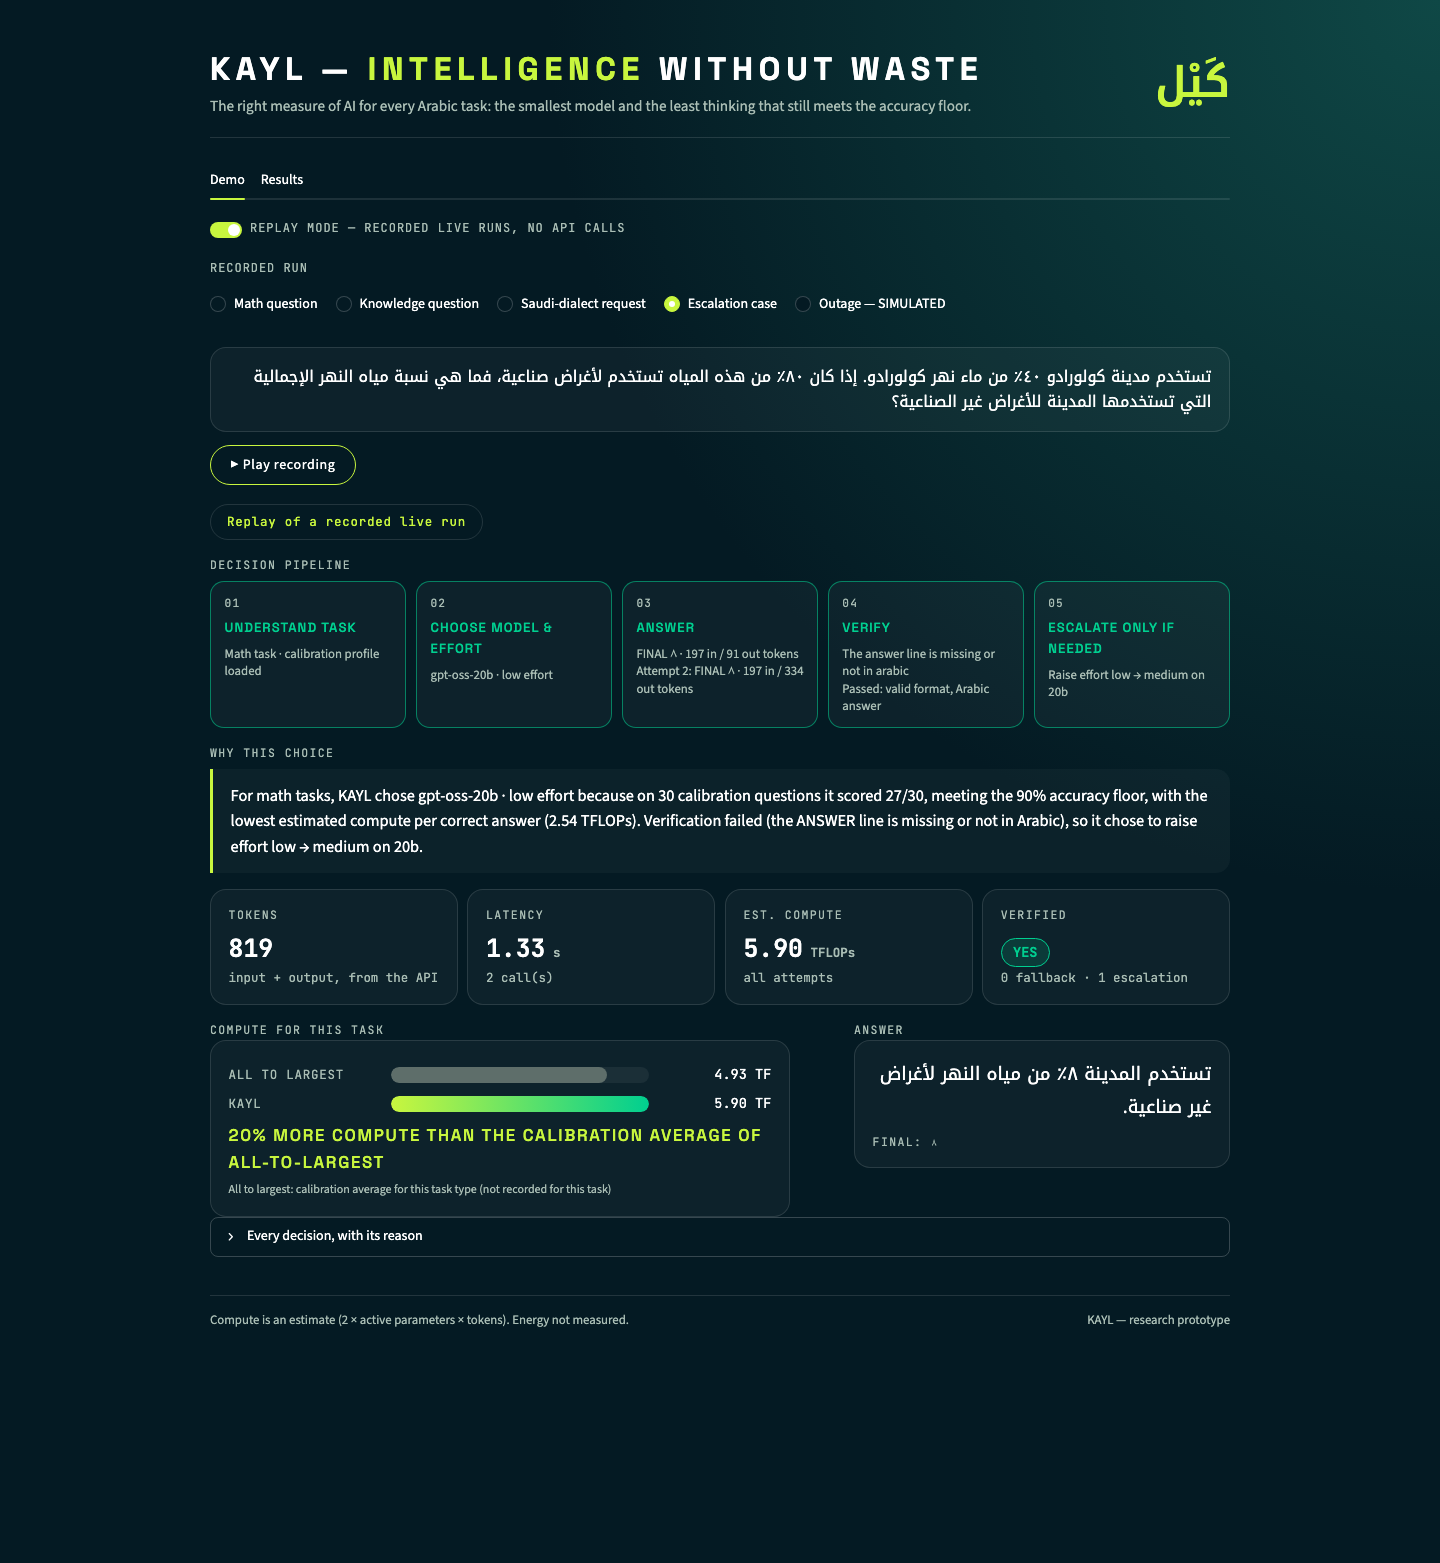
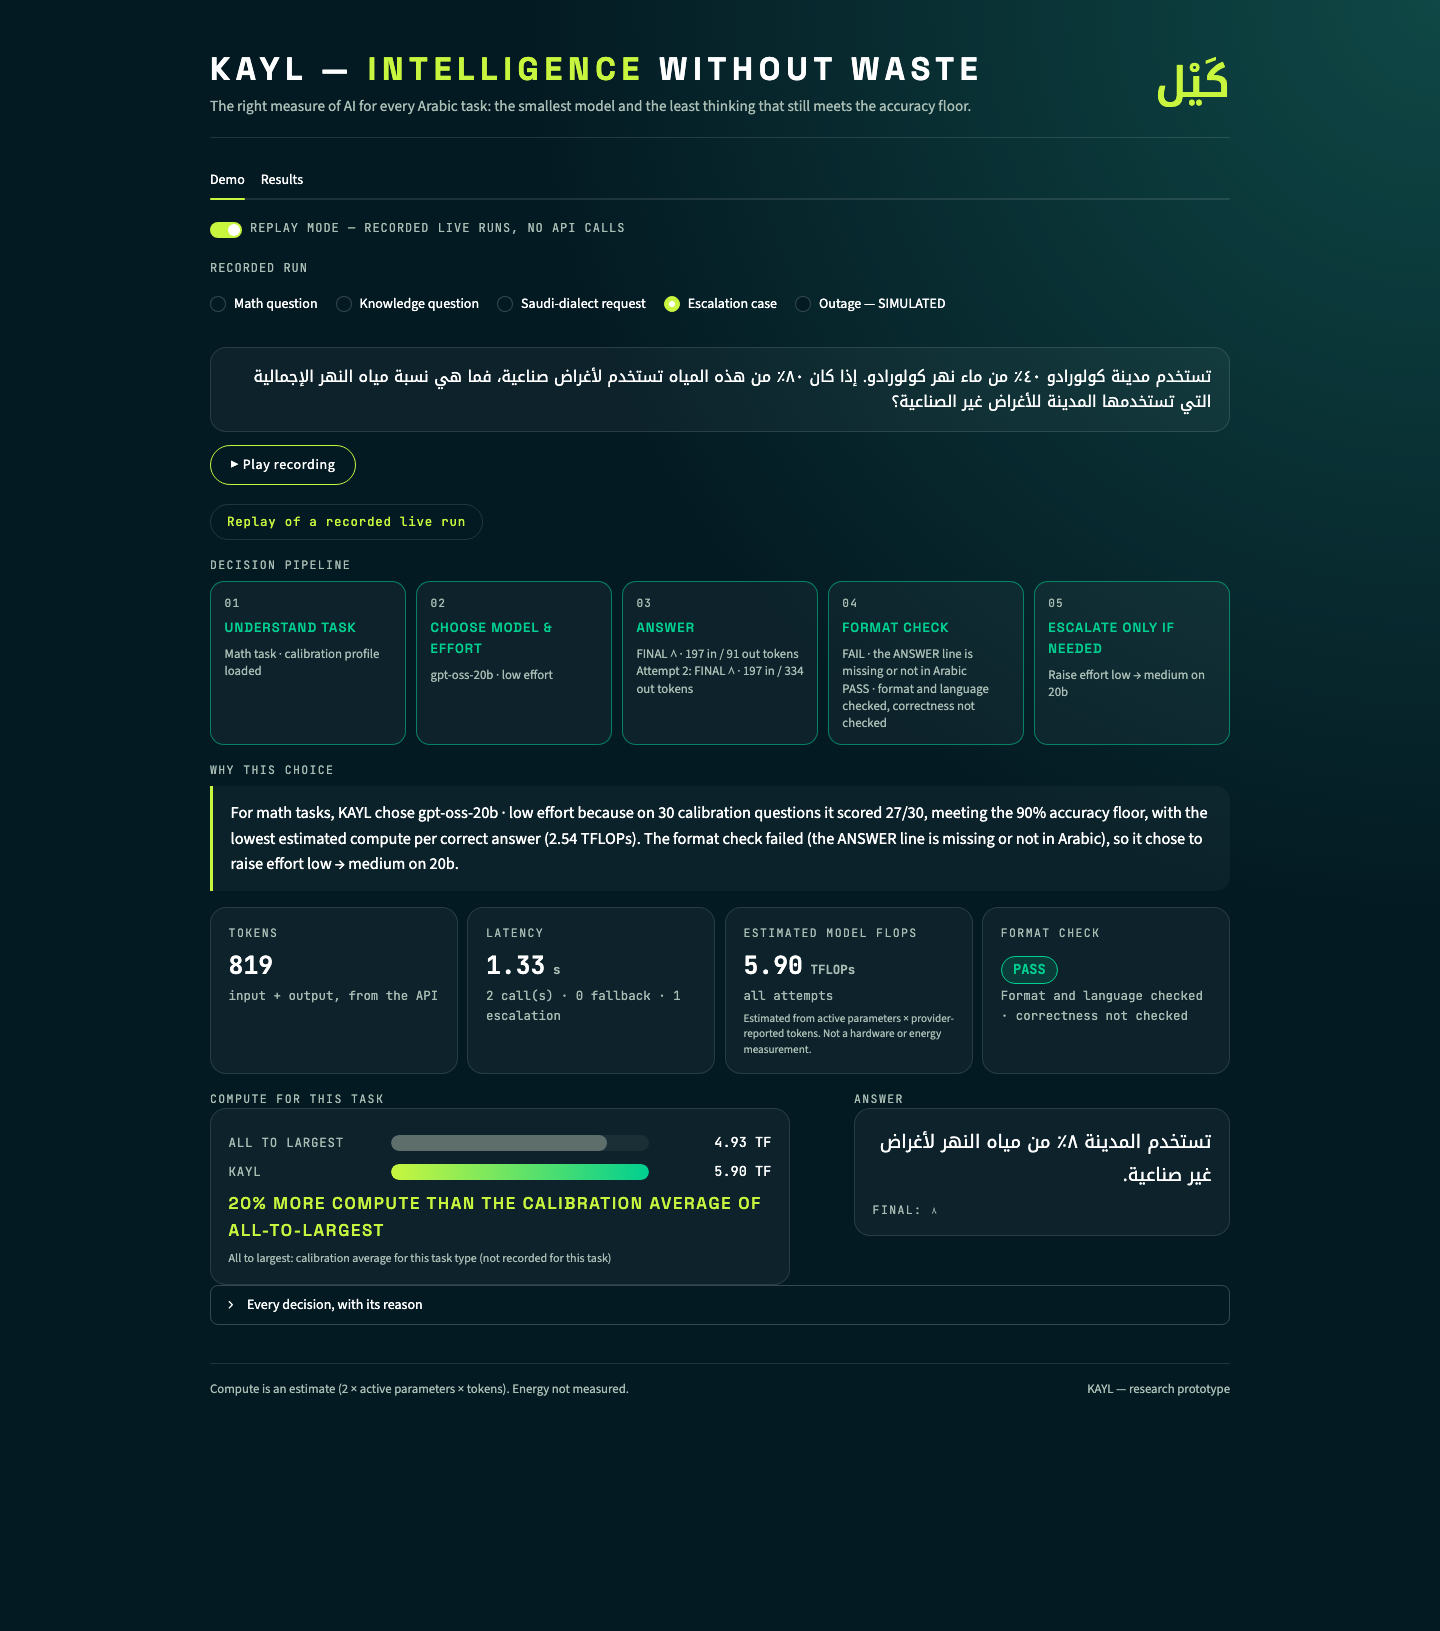
UI and README: format check instead of "verified"; estimated model FLOPs with a note; 49% stated with its caveats

diff --git a/app.py b/app.py
@@ -54,7 +54,7 @@ REPLAYS = [  # (key, title, source, task id, label, overrides)
      {"route": "openrouter", "unavailable": ["openai/gpt-oss-20b"]}),
 ]
 PIPELINE = [("understand", "Understand task"), ("choose", "Choose model & effort"), ("answer", "Answer"),
-            ("verify", "Verify"), ("escalate", "Escalate only if needed")]
+            ("verify", "Format check"), ("escalate", "Escalate only if needed")]
 STEP_OF = {"estimate": "understand", "choose": "choose", "fallback": "choose", "solve": "answer",
            "verify": "verify", "escalate": "escalate"}
 
@@ -103,6 +103,7 @@ p, label, .stMarkdown {color:var(--text);}
 .k-metrics{display:grid; grid-template-columns:repeat(4,1fr); gap:.6rem; margin-bottom:1rem;}
 .k-metric .v{font-family:'JetBrains Mono'; font-size:1.55rem; font-weight:600; margin-top:.25rem;}
 .k-metric .u{font-family:'JetBrains Mono'; font-size:.78rem; color:var(--muted);}
+.k-note{font-size:.7rem; color:var(--muted); line-height:1.35; margin-top:.35rem;}
 .k-badge{display:inline-block; border-radius:999px; padding:.15rem .7rem; font-family:'JetBrains Mono'; font-size:.85rem; font-weight:600;}
 .k-badge.yes{background:rgba(0,207,144,.15); color:var(--mint); border:1px solid var(--mint);}
 .k-badge.no{background:rgba(232,115,90,.12); color:#E8735A; border:1px solid #E8735A;}
@@ -303,8 +304,8 @@ def step_result(d: dict, out: dict, cfg: dict, attempt_no: int) -> tuple[str, st
         return f"FINAL {display_final(out['task_type'], a['final'])} · {a['input_tokens']} in / {a['output_tokens']} out tokens", "done"
     if step == "verify":
         ok = why.startswith("passed")
-        return ("Passed: valid format, Arabic answer" if ok else why.removeprefix("failed: ").capitalize()), \
-            ("done" if ok else "fail")
+        return ("PASS · format and language checked, correctness not checked" if ok
+                else "FAIL · " + why.removeprefix("failed: ")), ("done" if ok else "fail")
     if step == "escalate":
         return why.split(": ", 1)[1].split(", because")[0].capitalize(), "active"
     return why, "done"
@@ -339,7 +340,7 @@ def animate_pipeline(placeholder, out: dict, cfg: dict, animate: bool):
             results.setdefault(key, []).append(text)
         states[key] = state if state != "active" else "done"
     if "escalate" not in results:
-        results["escalate"] = ["Not needed — verification passed"] if out["verified"] else ["No step left"]
+        results["escalate"] = ["Not needed — format check passed"] if out["verified"] else ["No step left"]
         states["escalate"] = "skip"
     placeholder.markdown(pipeline_html(states, results), unsafe_allow_html=True)
 
@@ -363,7 +364,7 @@ def reason_sentence(out: dict, cfg: dict) -> str:
     for d in out["decisions"]:
         if d["step"] == "escalate":
             step, because = d["reason"].split(": ", 1)[1].split(", because ")
-            text += f" Verification failed ({because}), so it chose to {step}."
+            text += f" The format check failed ({because}), so it chose to {step}."
     return text
 
 
@@ -380,12 +381,12 @@ def results_view(r: dict, cfg: dict, animate: bool):
     tokens = sum(a["input_tokens"] + a["output_tokens"] for a in out["attempts"])
     latency = sum(a["latency_s"] or 0 for a in out["attempts"])
     compute = out["total_compute_flops"]
-    badge = '<span class="k-badge yes">YES</span>' if out["verified"] else '<span class="k-badge no">NO</span>'
+    badge = '<span class="k-badge yes">PASS</span>' if out["verified"] else '<span class="k-badge no">FAIL</span>'
     st.markdown(f"""<div class="k-metrics">
       <div class="k-card k-metric"><div class="k-label">Tokens</div><div class="v">{tokens:,}</div><div class="u">input + output, from the API</div></div>
-      <div class="k-card k-metric"><div class="k-label">Latency</div><div class="v">{latency:.2f}<span class="u"> s</span></div><div class="u">{len(out['attempts'])} call(s)</div></div>
-      <div class="k-card k-metric"><div class="k-label">Est. compute</div><div class="v">{compute / 1e12:.2f}<span class="u"> TFLOPs</span></div><div class="u">all attempts</div></div>
-      <div class="k-card k-metric"><div class="k-label">Verified</div><div class="v">{badge}</div><div class="u">{len(out['fallbacks'])} fallback · {out['escalations']} escalation</div></div>
+      <div class="k-card k-metric"><div class="k-label">Latency</div><div class="v">{latency:.2f}<span class="u"> s</span></div><div class="u">{len(out['attempts'])} call(s) · {len(out['fallbacks'])} fallback · {out['escalations']} escalation</div></div>
+      <div class="k-card k-metric"><div class="k-label">Estimated model FLOPs</div><div class="v">{compute / 1e12:.2f}<span class="u"> TFLOPs</span></div><div class="u">all attempts</div><div class="k-note">Estimated from active parameters × provider-reported tokens. Not a hardware or energy measurement.</div></div>
+      <div class="k-card k-metric"><div class="k-label">Format check</div><div class="v">{badge}</div><div class="u">Format and language checked · correctness not checked</div></div>
     </div>""", unsafe_allow_html=True)
 
     c1, c2 = st.columns([3, 2], gap="large")
@@ -422,8 +423,12 @@ def results_view(r: dict, cfg: dict, animate: bool):
 
     with st.expander("Every decision, with its reason"):
         for d in out["decisions"]:
-            st.markdown(f'<div class="k-label">{esc(d["step"])}</div>'
-                        f'<div style="margin-bottom:.5rem">{esc(display_reason(out["task_type"], d["reason"]))}</div>',
+            step = "format check" if d["step"] == "verify" else d["step"]
+            reason = display_reason(out["task_type"], d["reason"])
+            if d["step"] == "verify":
+                reason += " · correctness not checked"
+            st.markdown(f'<div class="k-label">{esc(step)}</div>'
+                        f'<div style="margin-bottom:.5rem">{esc(reason)}</div>',
                         unsafe_allow_html=True)
 
 
@@ -449,7 +454,7 @@ def results_tab():
     missed_txt = f" (missed {' and '.join(missed)} question(s))" if missed else ""
     st.markdown(f"""<div class="k-teal"><div class="k-label" style="color:#E6FFF6">Held-out test · 90 questions · one run · temperature 0</div>
       <div class="grid" style="margin-top:.6rem">
-        <div><div class="big">{saved:.0%}</div>less compute per correct answer than all-to-largest</div>
+        <div><div class="big">{saved:.0%}</div>lower estimated compute per correct answer than the largest-model baseline</div>
         <div><div class="big">{kayl['correct']}/{kayl['n']}</div>KAYL correct (all-to-largest: {big['correct']}/{big['n']})</div>
         <div><div class="big">{met} / {len(summ['D KAYL']) - 1}</div>task types where KAYL met its floors{esc(missed_txt)}</div>
       </div></div>""", unsafe_allow_html=True)

diff --git a/README.md b/README.md
@@ -5,7 +5,9 @@
 [![Python](https://img.shields.io/badge/python-3.14%20tested-3776AB?logo=python&logoColor=white)](requirements.txt)
 [![Tests](https://img.shields.io/badge/tests-329%20passing-brightgreen)](tests/)
 
-![KAYL replaying a recorded Arabic math run: it chose gpt-oss-20b at low effort and used 56% less compute than the largest model on the same task](docs/screenshots/replay_math.png)
+KAYL reduced estimated compute per correct answer by 49%, with 79/90 correct versus 83/90 for the largest-model baseline, and met its accuracy floor in 1 of 3 task types.
+
+![KAYL replaying a recorded Arabic math run: it chose gpt-oss-20b at low effort and used 56% less estimated compute than the largest model on the same task](docs/screenshots/replay_math.png)
 
 KAYL is an agent that answers Arabic tasks with the least compute that still meets an accuracy floor.
 It does not train any model: it only uses controls that already exist.
@@ -22,7 +24,7 @@ It does not train any model: it only uses controls that already exist.
 flowchart LR
     A["Estimate<br/>task type + calibration profile"] --> B["Choose<br/>model, effort, thinking language"]
     B --> C["Solve<br/>one model call"]
-    C --> D{"Verify<br/>FINAL valid? ANSWER in Arabic?<br/>not cut off?"}
+    C --> D{"Format check<br/>FINAL valid? ANSWER in Arabic?<br/>not cut off?<br/>(correctness not checked)"}
     D -- passed --> F["Finish"]
     D -- failed --> E["Escalate<br/>more effort, then a bigger model<br/>(at most 2)"]
     E --> C
@@ -42,7 +44,7 @@ For each task, KAYL picks three keys:
 
 ## Results
 
-**49% less compute than all-to-largest, with 79/90 vs 83/90 correct.** Held-out test: 90 questions (30 math, 30 knowledge, 30 intent), one run at temperature 0.
+**KAYL reduced estimated compute per correct answer by 49%, with 79/90 correct versus 83/90 for the largest-model baseline, and met its accuracy floor in 1 of 3 task types.** Held-out test: 90 questions (30 math, 30 knowledge, 30 intent), one run at temperature 0.
 
 | Experiment | Correct | Compute / success (TFLOPs, est.) | Cost / success | Types meeting the floors |
 |---|---|---|---|---|
@@ -76,7 +78,7 @@ Full tables, all ablations, robustness scenarios and the calibration sweep are i
 - **Thinking in Arabic was ignored (negative result).** Asked to reason in Arabic, gpt-oss-20b reasoned in English in **32 of 32** calls. That configuration was stopped, so the thinking-language key had no effect in this setup.
 - **Error analysis:** among KAYL's 11 wrong answers there were **0 arithmetic slips** and 0 format issues.
   - **3 of the 11 trace back to the data:** two Arabic-GSM8K translation problems and one intent row that the human review had flagged as ambiguous.
-  - Every wrong answer passed verification, because the verifier checks the format, not correctness.
+  - Every wrong answer passed the format check, because it checks format and language, not correctness.
 
 ## Quick start
 
